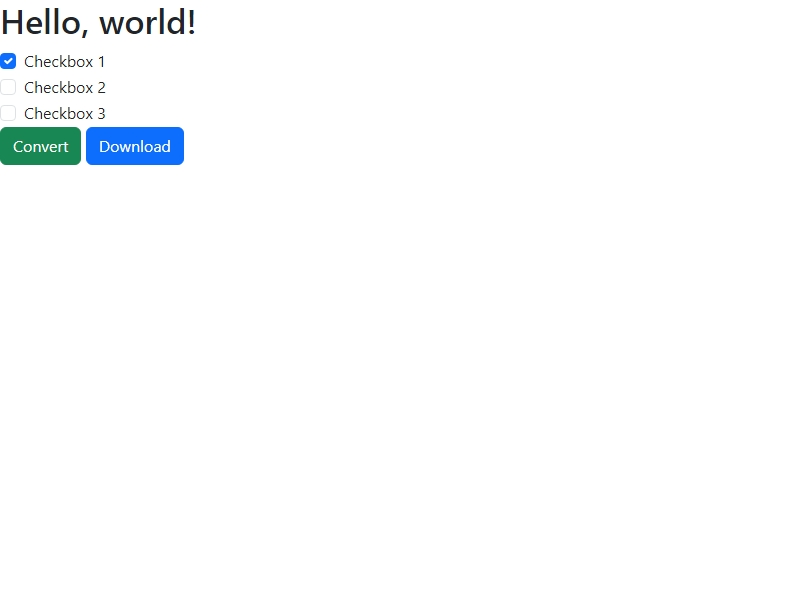
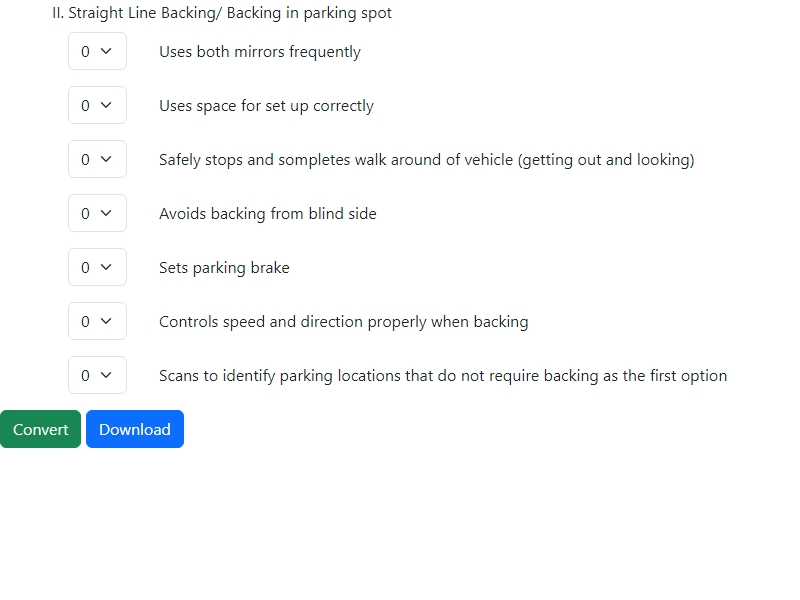
Updated UI

diff --git a/index.html b/index.html
@@ -10,10 +10,128 @@
       integrity="sha384-T3c6CoIi6uLrA9TneNEoa7RxnatzjcDSCmG1MXxSR1GAsXEV/Dwwykc2MPK8M2HN"
       crossorigin="anonymous"
     />
+    <link rel="stylesheet" type="text/css" href="index.css" />
   </head>
   <body>
-    <h1>Hello, world!</h1>
-    <div class="form-check">
+    <!-- Type Component -->
+    <div class="container">
+      <label for="exampleFormControlInput1" class="form-label"
+        >II. Straight Line Backing/ Backing in parking spot</label
+      >
+      <!-- Benchmark Component -->
+      <div class="row g-3 align-items-center">
+        <div class="m-3 col-auto">
+          <select class="form-select" aria-label="Default select example">
+            <option selected>0</option>
+            <option value="1">1</option>
+            <option value="2">2</option>
+            <option value="3">3</option>
+          </select>
+        </div>
+        <div class="mb-3 col-auto text-center">
+          <span> Uses both mirrors frequently </span>
+        </div>
+      </div>
+      <!-- end Benchmark Component -->
+      <!-- Benchmark Component -->
+      <div class="row g-3 align-items-center">
+        <div class="m-3 col-auto">
+          <select class="form-select" aria-label="Default select example">
+            <option selected>0</option>
+            <option value="1">1</option>
+            <option value="2">2</option>
+            <option value="3">3</option>
+          </select>
+        </div>
+        <div class="mb-3 col-auto text-center">
+          <span> Uses space for set up correctly </span>
+        </div>
+      </div>
+      <!-- end Benchmark Component -->
+      <!-- Benchmark Component -->
+      <div class="row g-3 align-items-center">
+        <div class="m-3 col-auto">
+          <select class="form-select" aria-label="Default select example">
+            <option selected>0</option>
+            <option value="1">1</option>
+            <option value="2">2</option>
+            <option value="3">3</option>
+          </select>
+        </div>
+        <div class="mb-3 col-auto text-center">
+          <span>
+            Safely stops and sompletes walk around of vehicle (getting out and
+            looking)
+          </span>
+        </div>
+      </div>
+      <!-- end Benchmark Component -->
+      <!-- Benchmark Component -->
+      <div class="row g-3 align-items-center">
+        <div class="m-3 col-auto">
+          <select class="form-select" aria-label="Default select example">
+            <option selected>0</option>
+            <option value="1">1</option>
+            <option value="2">2</option>
+            <option value="3">3</option>
+          </select>
+        </div>
+        <div class="mb-3 col-auto text-center">
+          <span> Avoids backing from blind side </span>
+        </div>
+      </div>
+      <!-- end Benchmark Component -->
+      <!-- Benchmark Component -->
+      <div class="row g-3 align-items-center">
+        <div class="m-3 col-auto">
+          <select class="form-select" aria-label="Default select example">
+            <option selected>0</option>
+            <option value="1">1</option>
+            <option value="2">2</option>
+            <option value="3">3</option>
+          </select>
+        </div>
+        <div class="mb-3 col-auto text-center">
+          <span> Sets parking brake </span>
+        </div>
+      </div>
+      <!-- end Benchmark Component -->
+      <!-- Benchmark Component -->
+      <div class="row g-3 align-items-center">
+        <div class="m-3 col-auto">
+          <select class="form-select" aria-label="Default select example">
+            <option selected>0</option>
+            <option value="1">1</option>
+            <option value="2">2</option>
+            <option value="3">3</option>
+          </select>
+        </div>
+        <div class="mb-3 col-auto text-center">
+          <span> Controls speed and direction properly when backing </span>
+        </div>
+      </div>
+      <!-- end Benchmark Component -->
+      <!-- Benchmark Component -->
+      <div class="row g-3 align-items-center">
+        <div class="m-3 col-auto">
+          <select class="form-select" aria-label="Default select example">
+            <option selected>0</option>
+            <option value="1">1</option>
+            <option value="2">2</option>
+            <option value="3">3</option>
+          </select>
+        </div>
+        <div class="mb-3 col-auto text-center">
+          <span>
+            Scans to identify parking locations that do not require backing as
+            the first option
+          </span>
+        </div>
+      </div>
+      <!-- end Benchmark Component -->
+    </div>
+    <!-- end Type Component -->
+    <!-- <div class="form-check">
       <input class="form-check-input" type="checkbox" value="" id="checkbox1" />
       <label class="form-check-label" for="checkbox1">Checkbox 1</label>
     </div>
@@ -24,7 +142,7 @@
     <div class="form-check">
       <input class="form-check-input" type="checkbox" value="" id="checkbox3" />
       <label class="form-check-label" for="checkbox3">Checkbox 3</label>
-    </div>
+    </div> -->
     <!-- Convert button -->
     <button type="button" class="btn btn-success" id="convertButton">
       Convert
@@ -38,71 +156,46 @@
     <div id="imageContainer"></div>
 
     <script>
-      document.addEventListener("DOMContentLoaded", function () {
-        const checkboxStates = {}; // Object to track checkbox states
+      document
+        .getElementById("convertButton")
+        .addEventListener("click", async () => {
+          try {
+            console.log("Convert clicked");
 
-        // Function to update checkbox state in the object
-        function updateCheckboxState(checkboxId) {
-          const checkbox = document.getElementById(checkboxId);
-          if (checkbox) {
-            checkboxStates[checkboxId] = checkbox.checked;
-          }
-        }
+            // Send the checkbox states to the server
+            const response = await fetch("/convert", {
+              method: "POST",
+              headers: {
+                "Content-Type": "application/json",
+              },
+              body: JSON.stringify({ checkbox2: true }),
+            });
 
-        document.getElementById("checkbox1").addEventListener("change", () => {
-          updateCheckboxState("checkbox1");
-        });
+            if (response.ok) {
+              console.log("Webpage converted to JPG");
 
-        document.getElementById("checkbox2").addEventListener("change", () => {
-          updateCheckboxState("checkbox2");
-        });
+              // Assuming the server saves the image as 'webpage.jpg'
+              const imagePath = "page.jpg";
+              const originalFileName = "page.jpg"; // Change this to the desired file name
 
-        document.getElementById("checkbox3").addEventListener("change", () => {
-          updateCheckboxState("checkbox3");
-        });
-
-        document
-          .getElementById("convertButton")
-          .addEventListener("click", async () => {
-            try {
-              console.log("Convert clicked");
-
-              // Send the checkbox states to the server
-              const response = await fetch("/convert", {
-                method: "POST",
-                headers: {
-                  "Content-Type": "application/json",
-                },
-                body: JSON.stringify({ checkboxStates }),
-              });
-
-              if (response.ok) {
-                console.log("Webpage converted to JPG");
-
-                // Assuming the server saves the image as 'webpage.jpg'
-                const imagePath = "page.jpg";
-                const originalFileName = "page.jpg"; // Change this to the desired file name
-
-                // Display the image in the 'imageContainer' div
-                const imageContainer =
-                  document.getElementById("imageContainer");
-                imageContainer.innerHTML = `<img src="${imagePath}" alt="Converted Image" />
+              // Display the image in the 'imageContainer' div
+              const imageContainer = document.getElementById("imageContainer");
+              imageContainer.innerHTML = `<img src="${imagePath}" alt="Converted Image" />
                 `;
 
-                // Create a download link for the image
-                const downloadButton = document.createElement("a");
-                downloadButton.href = imagePath;
-                downloadButton.download = originalFileName;
-                downloadButton.textContent = "Download Image";
-                imageContainer.appendChild(downloadButton);
-              } else {
-                console.error("Error:", response.statusText);
-              }
-            } catch (err) {
-              console.error("Error:", err);
+              // Create a download link for the image
+              const downloadButton = document.createElement("a");
+              downloadButton.href = imagePath;
+              downloadButton.download = originalFileName;
+              downloadButton.textContent = "Download Image";
+              imageContainer.appendChild(downloadButton);
+            } else {
+              console.error("Error:", response.statusText);
             }
-          });
-      });
+          } catch (err) {
+            console.error("Error:", err);
+          }
+        });
     </script>
   </body>
 </html>

diff --git a/server.js b/server.js
@@ -73,6 +73,9 @@ app.post("/convert", async (req, res) => {
   }
 });
 
+// Serve static files from a directory (e.g., 'public')
+app.use(express.static("public"));
+
 app.listen(port, () => {
   console.log(`Server is running on port ${port}`);
 });

diff --git a/public/index.css b/public/index.css
@@ -1,0 +1,10 @@
+ul {
+  list-style-type: none;
+}
+
+hr {
+  width: 40%;
+}
+
+#score-description {
+}
